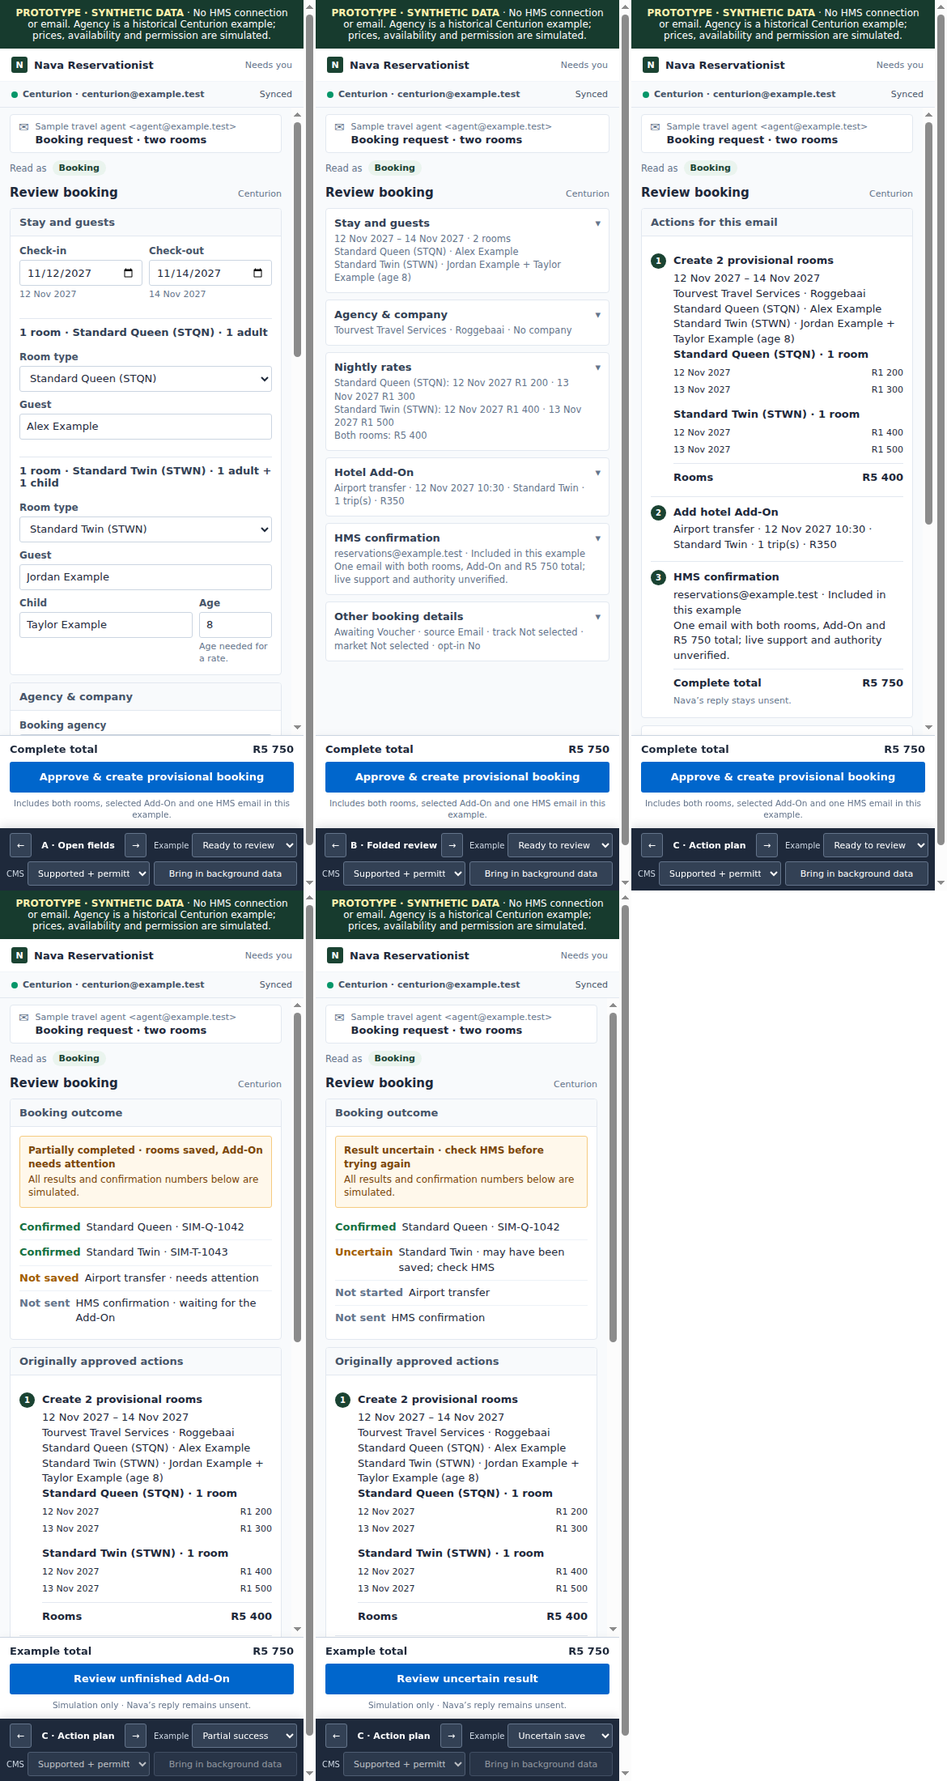
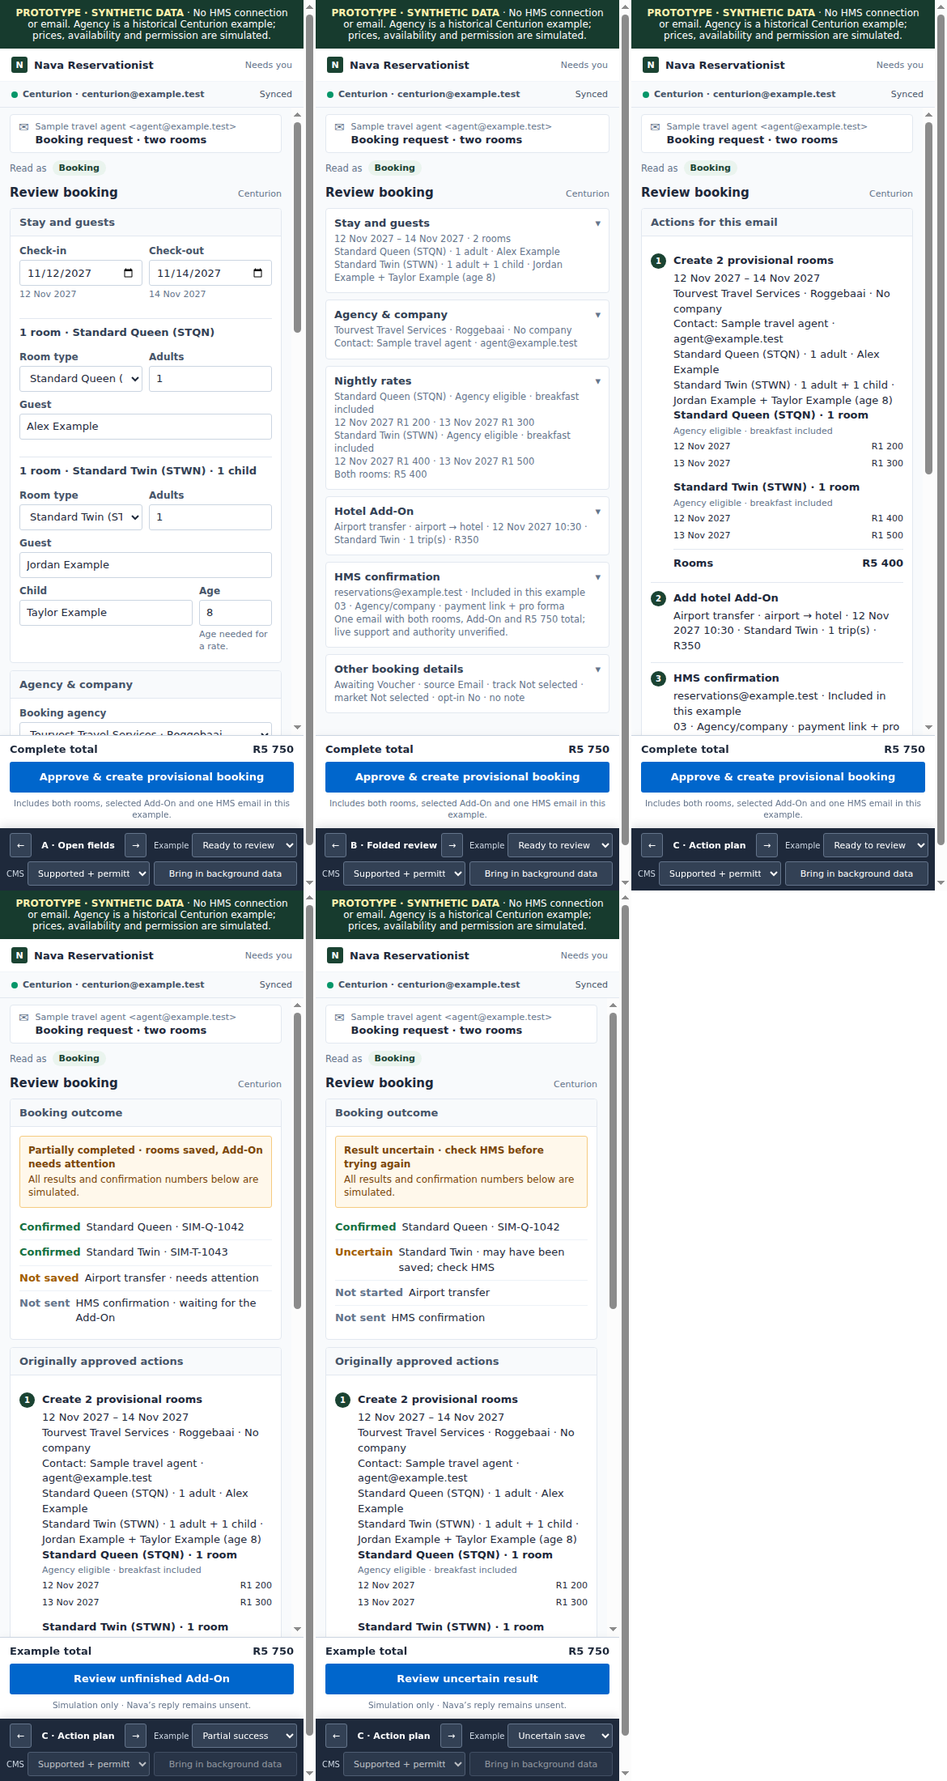
chore(prototype): expose complete booking review summaries

diff --git a/apps/mail/components/quote-workflow/prototypes/centurion-review.prototype.html b/apps/mail/components/quote-workflow/prototypes/centurion-review.prototype.html
@@ -165,11 +165,11 @@
     const initialScenario = validScenarios.includes(start.get('scenario')) ? start.get('scenario') : 'ready';
     const defaults = {
       arrival: '2027-11-12', departure: '2027-11-14',
-      queenType: 'Standard Queen (STQN)', twinType: 'Standard Twin (STWN)',
+      queenType: 'Standard Queen (STQN)', twinType: 'Standard Twin (STWN)', queenAdults: '1', twinAdults: '1',
       queenGuest: 'Alex Example', twinGuest: 'Jordan Example', childName: 'Taylor Example', childAge: '8',
-      agency: 'Tourvest Travel Services · Roggebaai', company: 'No company',
+      agency: 'Tourvest Travel Services · Roggebaai', company: 'No company', booker: 'Sample travel agent', bookerEmail: 'agent@example.test', bookerPhone: '',
       queenRate: 'Agency eligible · breakfast included', twinRate: 'Agency eligible · breakfast included',
-      addOn: 'Airport transfer', transferDate: '2027-11-12', transferTime: '10:30', transferRoom: 'Standard Twin', trips: '1',
+      addOn: 'Airport transfer', transferDate: '2027-11-12', transferTime: '10:30', transferRoom: 'twin', trips: '1',
       recipient: 'reservations@example.test', message: '03 · Agency/company · payment link + pro forma', send: 'Yes',
       guarantee: 'Awaiting Voucher', source: 'Email', track: 'Not selected', market: 'Not selected', note: '', consent: 'No',
     };
@@ -195,9 +195,12 @@
       return Array.from({ length: count }, (_, i) => new Date(begin + i * 86400000).toISOString().slice(0, 10));
     }
     const ageValid = () => /^\d{1,2}$/.test(state.values.childAge) && Number(state.values.childAge) <= 17;
+    const adultsValid = () => ['queenAdults', 'twinAdults'].every((key) => /^\d{1,2}$/.test(state.values[key]) && Number(state.values[key]) >= 1 && Number(state.values[key]) <= 16);
     const hasOutcome = () => ['partial', 'uncertain', 'success'].includes(state.scenario);
     const cmsIncluded = () => state.cmsMode === 'permitted' && state.values.send === 'Yes';
-    const lookupKey = () => JSON.stringify(['arrival', 'departure', 'queenType', 'twinType', 'childAge', 'agency'].map((key) => state.values[key]));
+    const roomName = (kind) => state.values[kind + 'Type'].replace(/\s*\([^)]*\)$/, '');
+    const adultLabel = (count) => `${esc(count)} adult${count === '1' ? '' : 's'}`;
+    const lookupKey = () => JSON.stringify(['arrival', 'departure', 'queenType', 'twinType', 'queenAdults', 'twinAdults', 'childAge', 'agency'].map((key) => state.values[key]));
     function prices() {
       const dates = nights();
       const queen = dates.map((_, index) => 1200 + (index % 2) * 100 + (state.values.queenRate.startsWith('BAR') ? 200 : 0));
@@ -208,7 +211,7 @@
     }
     function refreshRates() {
       lookupGeneration += 1;
-      if (!nights().length || !ageValid()) { state.rates = 'needs-details'; return; }
+      if (!nights().length || !ageValid() || !adultsValid()) { state.rates = 'needs-details'; return; }
       state.rates = 'checking';
       const version = lookupGeneration;
       const key = lookupKey();
@@ -225,11 +228,11 @@
       const id = `field-${key}`;
       let control;
       if (kind === 'select') {
-        control = `<select id="${id}" data-field="${key}"${disabled}>${choices.map((choice) => `<option${choice === value ? ' selected' : ''}>${esc(choice)}</option>`).join('')}</select>`;
+        control = `<select id="${id}" data-field="${key}"${disabled}>${choices.map((choice) => { const item = typeof choice === 'string' ? { value: choice, label: choice } : choice; return `<option value="${esc(item.value)}"${item.value === value ? ' selected' : ''}>${esc(item.label)}</option>`; }).join('')}</select>`;
       } else if (kind === 'textarea') {
         control = `<textarea id="${id}" data-field="${key}"${disabled}>${esc(value)}</textarea>`;
       } else {
-        const bounds = key === 'childAge' ? ' min="0" max="17"' : key === 'trips' ? ' min="1" max="8"' : '';
+        const bounds = key === 'childAge' ? ' min="0" max="17"' : key === 'trips' ? ' min="1" max="8"' : key.endsWith('Adults') ? ' min="1" max="16"' : '';
         control = `<input id="${id}" data-field="${key}" type="${kind}" value="${esc(value)}"${bounds}${disabled}>`;
       }
       const conflict = Object.hasOwn(state.conflicts, key) ? `<div class="field-help conflict">New suggestion: ${esc(state.conflicts[key] || 'empty')} · your edit was kept.</div>` : '';
@@ -245,18 +248,19 @@
     const rateChoices = ['Agency eligible · breakfast included', 'BAR · breakfast included'];
     function stayEditor() {
       return `<div class="fields"><div class="grid-2">${field('arrival', 'Check-in', 'date')}${field('departure', 'Check-out', 'date')}</div>
-        <div class="subheading">1 room · ${esc(state.values.queenType)} · 1 adult</div>${field('queenType', 'Room type', 'select', roomChoices)}${field('queenGuest', 'Guest', 'text')}
-        <div class="subheading">1 room · ${esc(state.values.twinType)} · 1 adult + 1 child</div>${field('twinType', 'Room type', 'select', roomChoices)}${field('twinGuest', 'Guest', 'text')}
+        <div class="subheading">1 room · ${esc(state.values.queenType)}</div><div class="grid-2">${field('queenType', 'Room type', 'select', roomChoices)}${field('queenAdults', 'Adults', 'number')}</div>${field('queenGuest', 'Guest', 'text')}
+        <div class="subheading">1 room · ${esc(state.values.twinType)} · 1 child</div><div class="grid-2">${field('twinType', 'Room type', 'select', roomChoices)}${field('twinAdults', 'Adults', 'number')}</div>${field('twinGuest', 'Guest', 'text')}
         <div class="grid-age">${field('childName', 'Child', 'text')}${field('childAge', 'Age', 'number', [], 'Age needed for a rate.')}</div></div>`;
     }
     function partyEditor() {
-      return `<div class="fields">${field('agency', 'Booking agency', 'select', agencyChoices, 'Centurion profile example; current record must be checked.')}${field('company', 'Company', 'select', ['No company', 'Example company · simulated record'])}</div>`;
+      return `<div class="fields">${field('agency', 'Booking agency', 'select', agencyChoices, 'Centurion profile example; current record must be checked.')}${field('company', 'Company', 'select', ['No company', 'Example company · simulated record'])}<div class="subheading">Booking contact</div>${field('booker', 'Name')}${field('bookerEmail', 'Email', 'email')}${field('bookerPhone', 'Phone', 'tel')}</div>`;
     }
     function rateEditor() {
       return `<div class="fields">${field('queenRate', 'Queen rate', 'select', rateChoices)}${field('twinRate', 'Twin rate', 'select', rateChoices)}${rateRows()}</div>`;
     }
     function addOnEditor() {
-      const extra = state.values.addOn === 'Airport transfer' ? `<div class="grid-2">${field('transferDate', 'Date', 'date')}${field('transferTime', 'Arrival time', 'time')}</div><div class="grid-2">${field('transferRoom', 'Attach to', 'select', ['Standard Queen', 'Standard Twin'])}${field('trips', 'Trips', 'number')}</div><div class="small muted">Airport → hotel · ${money(350)} per trip · illustrative Centurion Add-On.</div>` : '';
+      const rooms = [{ value: 'queen', label: `${roomName('queen')} · ${state.values.queenGuest}` }, { value: 'twin', label: `${roomName('twin')} · ${state.values.twinGuest}` }];
+      const extra = state.values.addOn === 'Airport transfer' ? `<div class="grid-2">${field('transferDate', 'Date', 'date')}${field('transferTime', 'Arrival time', 'time')}</div><div class="grid-2">${field('transferRoom', 'Attach to', 'select', rooms)}${field('trips', 'Trips', 'number')}</div><div class="small muted">Airport → hotel · ${money(350)} per trip · illustrative Centurion Add-On.</div>` : '';
       return `<div class="fields">${field('addOn', 'Hotel Add-On', 'select', ['Airport transfer', 'None'])}${extra}</div>`;
     }
     function confirmationEditor() {
@@ -269,19 +273,22 @@
     function otherEditor() {
       return `<div class="fields">${field('guarantee', 'Guarantee', 'select', ['Awaiting Voucher', 'Guaranteed By Agent', 'Guaranteed By Company', 'Non-Guaranteed Individual'], 'A guarantee or voucher is not proof of payment.')}${field('source', 'Source of business', 'select', ['Email', 'Telephone'])}${field('track', 'Track', 'select', ['Not selected', 'Example track'])}${field('market', 'Market segment', 'select', ['Not selected', 'Example segment'])}${field('note', 'Reservation note', 'textarea')}${field('consent', 'Guest terms opt-in', 'select', ['No', 'Yes'])}</div>`;
     }
-    function rateRows() {
+    function rateRows(showPlan = false) {
       const p = prices();
       if (!p.dates.length) return '<div class="small muted">Enter a valid stay of 1–7 nights to see the example nightly rates.</div>';
       const rows = (amounts) => p.dates.map((date, i) => `<div class="line small"><span>${formatDate(date)}</span><span>${money(amounts[i])}</span></div>`).join('');
-      return `<div><div class="price-title">${esc(state.values.queenType)} · 1 room</div>${rows(p.queen)}<div class="price-title">${esc(state.values.twinType)} · 1 room</div>${rows(p.twin)}<div class="line total-line"><span>Rooms</span><span>${money(p.rooms)}</span></div></div>`;
+      return `<div><div class="price-title">${esc(state.values.queenType)} · 1 room</div>${showPlan ? `<div class="small muted">${esc(state.values.queenRate)}</div>` : ''}${rows(p.queen)}<div class="price-title">${esc(state.values.twinType)} · 1 room</div>${showPlan ? `<div class="small muted">${esc(state.values.twinRate)}</div>` : ''}${rows(p.twin)}<div class="line total-line"><span>Rooms</span><span>${money(p.rooms)}</span></div></div>`;
     }
     function addonSummary() {
       if (state.values.addOn === 'None') return 'No Add-On selected';
-      return `Airport transfer · ${esc(formatDate(state.values.transferDate))} ${esc(state.values.transferTime)} · ${esc(state.values.transferRoom)} · ${esc(state.values.trips)} trip(s) · ${money(prices().addon)}`;
+      return `Airport transfer · airport → hotel · ${esc(formatDate(state.values.transferDate))} ${esc(state.values.transferTime)} · ${esc(roomName(state.values.transferRoom))} · ${esc(state.values.trips)} trip(s) · ${money(prices().addon)}`;
     }
     function cmsSummary() {
       const stateLabel = cmsIncluded() ? (hasOutcome() ? 'Was included in the approved plan; see result above' : 'Included in this example') : state.cmsMode === 'unverified' ? 'Not included: capability or permission unverified' : 'Not included: staff choice';
-      return `${esc(state.values.recipient || 'Recipient missing')} · ${stateLabel}<br>One email with both rooms, Add-On and ${money(prices().total)} total; live support and authority unverified.`;
+      return `${esc(state.values.recipient || 'Recipient missing')} · ${stateLabel}<br>${esc(state.values.message)}<br>One email with both rooms, Add-On and ${money(prices().total)} total; live support and authority unverified.`;
+    }
+    function otherSummary() {
+      return `${esc(state.values.guarantee)} · source ${esc(state.values.source)} · track ${esc(state.values.track)} · market ${esc(state.values.market)} · opt-in ${esc(state.values.consent)} · ${state.values.note ? 'note: ' + esc(state.values.note) : 'no note'}`;
     }
     function outcomeBlock() {
       if (!hasOutcome()) return '';
@@ -301,35 +308,40 @@
     }
     function notices() {
       let result = '';
-      if (state.scenario === 'changed' && !hasOutcome()) result += '<div class="notice"><strong>Rate changed while you were reviewing</strong>Standard Twin, second night: R1,500 → R1,600. Check the updated total before approving.</div>';
+      if (state.scenario === 'changed' && !hasOutcome()) {
+        const p = prices();
+        const detail = p.dates.length > 1 ? `${esc(state.values.twinType)}, ${esc(formatDate(p.dates[1]))}: ${money(p.twin[1] - 100)} → ${money(p.twin[1])}.` : 'Check the current nightly rate.';
+        result += `<div class="notice"><strong>Rate changed while you were reviewing</strong>${detail} Check the updated total before approving.</div>`;
+      }
       if (!ageValid() && !hasOutcome()) result += '<div class="notice"><strong>Child’s age needed</strong>Enter the age to check the eligible rate and continue.</div>';
       if (state.rates === 'checking' && !hasOutcome()) result += '<div class="notice info"><strong>Checking rates for your changes</strong>Your edits are kept while the example lookup finishes.</div>';
       if (state.prefillArrived && Object.keys(state.dirty).length) result += '<div class="notice good"><strong>Background data arrived</strong>Your edited fields were kept. New suggestions are shown beside any differing edits.</div>';
       return result;
     }
     function layoutA() {
-      return `${outcomeBlock()}${notices()}${section('Stay and guests', stayEditor())}${section('Agency & company', partyEditor())}${section('Nightly rates', rateEditor())}${section('Hotel Add-On', addOnEditor())}${section('HMS confirmation', confirmationEditor())}${disclosure('Other booking details', 'Guarantee, source, track, notes and consent', otherEditor())}`;
+      return `${outcomeBlock()}${notices()}${section('Stay and guests', stayEditor())}${section('Agency & company', partyEditor())}${section('Nightly rates', rateEditor())}${section('Hotel Add-On', addOnEditor())}${section('HMS confirmation', confirmationEditor())}${disclosure('Other booking details', otherSummary(), otherEditor())}`;
     }
     function layoutB() {
       const p = prices();
       return `${outcomeBlock()}${notices()}
-        ${disclosure('Stay and guests', `${esc(formatDate(state.values.arrival))} – ${esc(formatDate(state.values.departure))} · 2 rooms<br>${esc(state.values.queenType)} · ${esc(state.values.queenGuest)}<br>${esc(state.values.twinType)} · ${esc(state.values.twinGuest)} + ${esc(state.values.childName)} (age ${esc(state.values.childAge || 'missing')})`, stayEditor(), !ageValid())}
-        ${disclosure('Agency & company', `${esc(state.values.agency)} · ${esc(state.values.company)}`, partyEditor())}
-        ${disclosure('Nightly rates', `${esc(state.values.queenType)}: ${p.dates.map((d, i) => `${esc(formatDate(d))} ${money(p.queen[i])}`).join(' · ')}<br>${esc(state.values.twinType)}: ${p.dates.map((d, i) => `${esc(formatDate(d))} ${money(p.twin[i])}`).join(' · ')}<br>Both rooms: ${money(p.rooms)}`, rateEditor(), state.scenario === 'changed')}
+        ${disclosure('Stay and guests', `${esc(formatDate(state.values.arrival))} – ${esc(formatDate(state.values.departure))} · 2 rooms<br>${esc(state.values.queenType)} · ${adultLabel(state.values.queenAdults)} · ${esc(state.values.queenGuest)}<br>${esc(state.values.twinType)} · ${adultLabel(state.values.twinAdults)} + 1 child · ${esc(state.values.twinGuest)} + ${esc(state.values.childName)} (age ${esc(state.values.childAge || 'missing')})`, stayEditor(), !ageValid())}
+        ${disclosure('Agency & company', `${esc(state.values.agency)} · ${esc(state.values.company)}<br>Contact: ${esc(state.values.booker)} · ${esc(state.values.bookerEmail)}${state.values.bookerPhone ? ' · ' + esc(state.values.bookerPhone) : ''}`, partyEditor())}
+        ${disclosure('Nightly rates', `${esc(state.values.queenType)} · ${esc(state.values.queenRate)}<br>${p.dates.map((d, i) => `${esc(formatDate(d))} ${money(p.queen[i])}`).join(' · ')}<br>${esc(state.values.twinType)} · ${esc(state.values.twinRate)}<br>${p.dates.map((d, i) => `${esc(formatDate(d))} ${money(p.twin[i])}`).join(' · ')}<br>Both rooms: ${money(p.rooms)}`, rateEditor(), state.scenario === 'changed')}
         ${disclosure('Hotel Add-On', addonSummary(), addOnEditor())}
         ${disclosure('HMS confirmation', cmsSummary(), confirmationEditor())}
-        ${disclosure('Other booking details', `${esc(state.values.guarantee)} · source ${esc(state.values.source)} · track ${esc(state.values.track)} · market ${esc(state.values.market)} · opt-in ${esc(state.values.consent)}${state.values.note ? ' · note: ' + esc(state.values.note) : ''}`, otherEditor())}`;
+        ${disclosure('Other booking details', otherSummary(), otherEditor())}`;
     }
     function layoutC() {
       const p = prices();
-      const plan = `<div class="plan-step"><span class="plan-number">1</span><div class="plan-detail"><strong>Create 2 provisional rooms</strong>${esc(formatDate(state.values.arrival))} – ${esc(formatDate(state.values.departure))}<br>${esc(state.values.agency)}<br>${esc(state.values.queenType)} · ${esc(state.values.queenGuest)}<br>${esc(state.values.twinType)} · ${esc(state.values.twinGuest)} + ${esc(state.values.childName)} (age ${esc(state.values.childAge || 'missing')})${rateRows()}</div></div>
+      const plan = `<div class="plan-step"><span class="plan-number">1</span><div class="plan-detail"><strong>Create 2 provisional rooms</strong>${esc(formatDate(state.values.arrival))} – ${esc(formatDate(state.values.departure))}<br>${esc(state.values.agency)} · ${esc(state.values.company)}<br>Contact: ${esc(state.values.booker)} · ${esc(state.values.bookerEmail)}${state.values.bookerPhone ? ' · ' + esc(state.values.bookerPhone) : ''}<br>${esc(state.values.queenType)} · ${adultLabel(state.values.queenAdults)} · ${esc(state.values.queenGuest)}<br>${esc(state.values.twinType)} · ${adultLabel(state.values.twinAdults)} + 1 child · ${esc(state.values.twinGuest)} + ${esc(state.values.childName)} (age ${esc(state.values.childAge || 'missing')})${rateRows(true)}</div></div>
         <div class="plan-step"><span class="plan-number">2</span><div class="plan-detail"><strong>${state.values.addOn === 'None' ? 'No Add-On' : 'Add hotel Add-On'}</strong>${addonSummary()}</div></div>
         <div class="plan-step"><span class="plan-number">3</span><div class="plan-detail"><strong>HMS confirmation</strong>${cmsSummary()}<div class="line total-line"><span>Complete total</span><span>${money(p.total)}</span></div><span class="small muted">Nava’s reply stays unsent.</span></div></div>`;
-      return `${outcomeBlock()}${notices()}${section(hasOutcome() ? 'Originally approved actions' : 'Actions for this email', plan)}${disclosure('Edit stay and guests', 'Dates, room types, occupants and child age', stayEditor(), !ageValid())}${disclosure('Edit agency & rates', `${esc(state.values.agency)} · ${money(p.rooms)} rooms`, partyEditor() + '<div class="subheading">Nightly rates</div>' + rateEditor())}${disclosure('Edit Add-On', addonSummary(), addOnEditor())}${disclosure('Edit HMS confirmation', esc(state.values.recipient || 'Recipient missing'), confirmationEditor())}${disclosure('Other booking details', `${esc(state.values.guarantee)} · source ${esc(state.values.source)} · track ${esc(state.values.track)} · market ${esc(state.values.market)} · opt-in ${esc(state.values.consent)}${state.values.note ? ' · note: ' + esc(state.values.note) : ''}`, otherEditor())}`;
+      return `${outcomeBlock()}${notices()}${section(hasOutcome() ? 'Originally approved actions' : 'Actions for this email', plan)}${disclosure('Edit stay and guests', 'Dates, room types, occupants and child age', stayEditor(), !ageValid())}${disclosure('Edit agency & rates', `${esc(state.values.agency)} · ${money(p.rooms)} rooms`, partyEditor() + '<div class="subheading">Nightly rates</div>' + rateEditor())}${disclosure('Edit Add-On', addonSummary(), addOnEditor())}${disclosure('Edit HMS confirmation', esc(state.values.recipient || 'Recipient missing'), confirmationEditor())}${disclosure('Other booking details', otherSummary(), otherEditor())}`;
     }
     function disabledReason() {
       if (!nights().length) return 'Enter a valid stay of 1–7 nights.';
       if (!ageValid()) return 'Enter the child’s age to continue.';
+      if (!adultsValid()) return 'Enter the number of adults in each room.';
       if (!state.values.queenGuest.trim() || !state.values.twinGuest.trim() || !state.values.childName.trim()) return 'Enter each guest’s name.';
       if (state.rates !== 'ready') return 'Wait for the updated rates.';
       if (state.values.addOn !== 'None' && (!state.values.transferDate || !state.values.transferTime || Number(state.values.trips) < 1)) return 'Complete the Add-On details.';
@@ -368,11 +380,11 @@
       document.getElementById('state-readout').textContent = JSON.stringify({
         property: 'Centurion · illustrative', agency: state.values.agency,
         stay: { arrival: state.values.arrival, departure: state.values.departure, rooms: [
-          { type: state.values.queenType, guest: state.values.queenGuest, nightly: p.queen },
-          { type: state.values.twinType, guest: state.values.twinGuest, child: state.values.childName, childAge: state.values.childAge, nightly: p.twin },
+          { type: state.values.queenType, adults: state.values.queenAdults, guest: state.values.queenGuest, rate: state.values.queenRate, nightly: p.queen },
+          { type: state.values.twinType, adults: state.values.twinAdults, guest: state.values.twinGuest, child: state.values.childName, childAge: state.values.childAge, rate: state.values.twinRate, nightly: p.twin },
         ] }, addOn: { type: state.values.addOn, date: state.values.transferDate, time: state.values.transferTime, room: state.values.transferRoom, trips: state.values.trips, total: p.addon },
         total: p.total, confirmation: { recipient: state.values.recipient, message: state.values.message, includes: 'both rooms, Add-On and complete total', includedInExample: cmsIncluded() },
-        otherFields: { company: state.values.company, guarantee: state.values.guarantee, source: state.values.source, track: state.values.track, market: state.values.market, note: state.values.note, consent: state.values.consent },
+        otherFields: { company: state.values.company, booker: state.values.booker, bookerEmail: state.values.bookerEmail, bookerPhone: state.values.bookerPhone, guarantee: state.values.guarantee, source: state.values.source, track: state.values.track, market: state.values.market, note: state.values.note, consent: state.values.consent },
         scenario: state.scenario, rateStatus: state.rates, dirtyFields: Object.keys(state.dirty), keptSuggestions: state.conflicts,
       }, null, 2);
       document.getElementById('pane-scroll').scrollTop = scroll;
@@ -419,7 +431,7 @@
       state.values[key] = el.value;
       state.dirty[key] = true;
       delete state.conflicts[key];
-      if (['arrival', 'departure', 'queenType', 'twinType', 'childAge', 'agency'].includes(key)) refreshRates();
+      if (['arrival', 'departure', 'queenType', 'twinType', 'queenAdults', 'twinAdults', 'childAge', 'agency'].includes(key)) refreshRates();
       render();
     }
     document.getElementById('review').addEventListener('input', (event) => { if (event.target.tagName !== 'SELECT') updateField(event); });
@@ -435,7 +447,7 @@
     document.getElementById('cms-mode').addEventListener('change', (event) => { state.cmsMode = event.target.value; render(); });
     document.getElementById('prefill').addEventListener('click', () => {
       const before = lookupKey();
-      const incoming = { queenGuest: 'Alex Example', twinGuest: 'Jordan Example', childName: 'Taylor Example', childAge: '8', agency: 'Tourvest Travel Services · Roggebaai', recipient: 'reservations@example.test', note: 'Airport transfer on arrival' };
+      const incoming = { queenGuest: 'Alex Example', twinGuest: 'Jordan Example', childName: 'Taylor Example', childAge: '8', agency: 'Tourvest Travel Services · Roggebaai', booker: 'Sample travel agent', bookerEmail: 'agent@example.test', recipient: 'reservations@example.test', note: 'Airport transfer on arrival' };
       Object.entries(incoming).forEach(([key, value]) => {
         if (state.dirty[key]) { if (state.values[key] !== value) state.conflicts[key] = value; }
         else state.values[key] = value;
